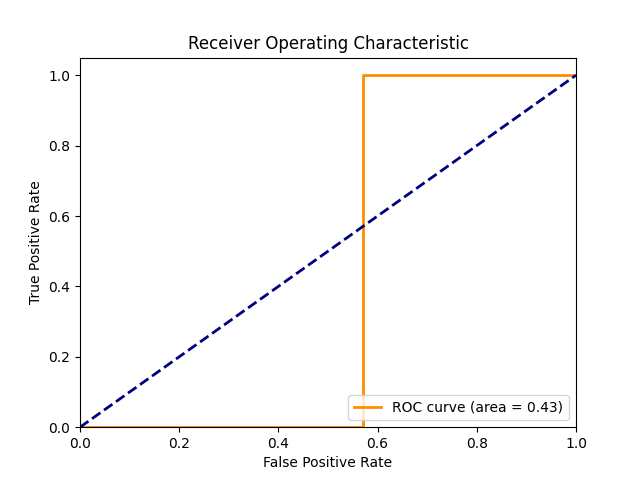
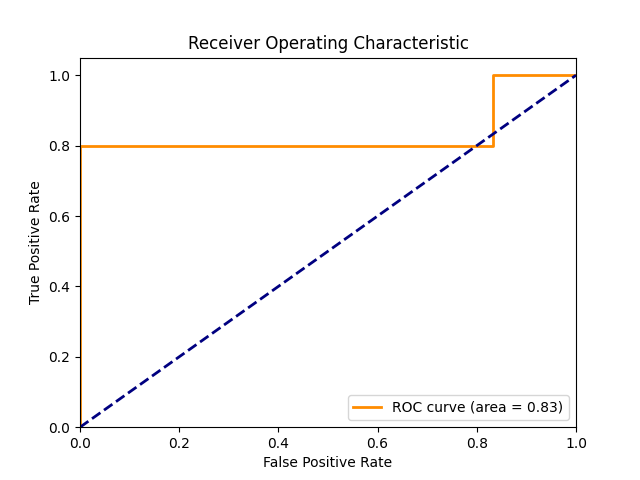
change roc curve to accomodate deeplab MLO

Changed region(s): [[0.125, 0.1562, 0.7812, 0.875], [0.8438, 0.8438, 0.875, 0.875]]

diff --git a/src/loader.py b/src/loader.py
@@ -192,7 +192,7 @@ class subject_patient_pairs(Dataset):
                                                 for (pre, index_pre, label), (post, index_post, _), (mask_slice, _) in 
                                                 zip(images_pre_pad, images_post_pad, mask_slices_pad) if 
                                                 slice_has_high_info(pre) and slice_has_high_info(post)]
-                                 
+                                
                                 self.data.extend(triplets_pat)
                         except FileNotFoundError as e:
                             print(f"{e}, this is normal to happen for 3 subjects which have no postoperative data")
@@ -301,7 +301,6 @@ class shifted_subject_patient_pairs(Dataset):
                                                 slice_has_high_info(pre) and slice_has_high_info(post)]
                                  
                                 self.data.extend(triplets_pat)
-                                return
                         except FileNotFoundError as e:
                             print(f"{e}, this is normal to happen for 3 subjects which have no postoperative data")
                         except Exception as e:
@@ -360,7 +359,6 @@ class control_pairs(Dataset):
                             self.data.extend(triplets_con)
                             self.labels.extend([label for (_, label, _) in images_pre_pad])
                         
-                                # return
                         except FileNotFoundError as e:
                             print(f"{e}, this is normal to happen for 3 subjects which have no postoperative data")
                         except Exception as e:

diff --git a/src/visualizations.py b/src/visualizations.py
@@ -50,12 +50,19 @@ def get_baseline(pre: torch.Tensor, post: torch.Tensor) -> torch.Tensor:
 
 def generate_roc_curve(distances, labels, save_dir, extra_title=""):
     # # Invert distances because lower distance indicates more similarity
-    # distances = [d.cpu().item() for d in distances]
-    # labels = [l.cpu().item() for l in labels]
-
-    scores = [-d for d in distances]
+    try:
+        scores = [d.cpu().item() for d in distances]
+        scores = [-s for s in scores]
+    except AttributeError:
+        scores = [-s for s in distances]
+    # print(labels, scores)
     fpr, tpr, thresholds = roc_curve(labels, scores)
     roc_auc = auc(fpr, tpr)
+
+    # Calculate Youden's J statistic for each threshold
+    J_scores = tpr - fpr
+    optimal_idx = np.argmax(J_scores)
+    optimal_threshold = thresholds[optimal_idx]
 
     plt.figure()
     lw = 2
@@ -69,9 +76,12 @@ def generate_roc_curve(distances, labels, save_dir, extra_title=""):
     plt.legend(loc="lower right")
 
     # Save the plot to the specified directory
+    print("Saving ROC curve to:", os.path.join(save_dir, f'roc{extra_title}.png'))
+
     plt.savefig(os.path.join(save_dir, f'roc{extra_title}.png'))
     plt.close()  # Close the plot to free up memory
-    return thresholds
+    print(optimal_threshold)
+    return optimal_threshold
 
 def single_layer_similar_heatmap_visual(output_t0: torch.Tensor,output_t1: torch.Tensor,dist_flag: str,
                                         mode='bilinear'):
